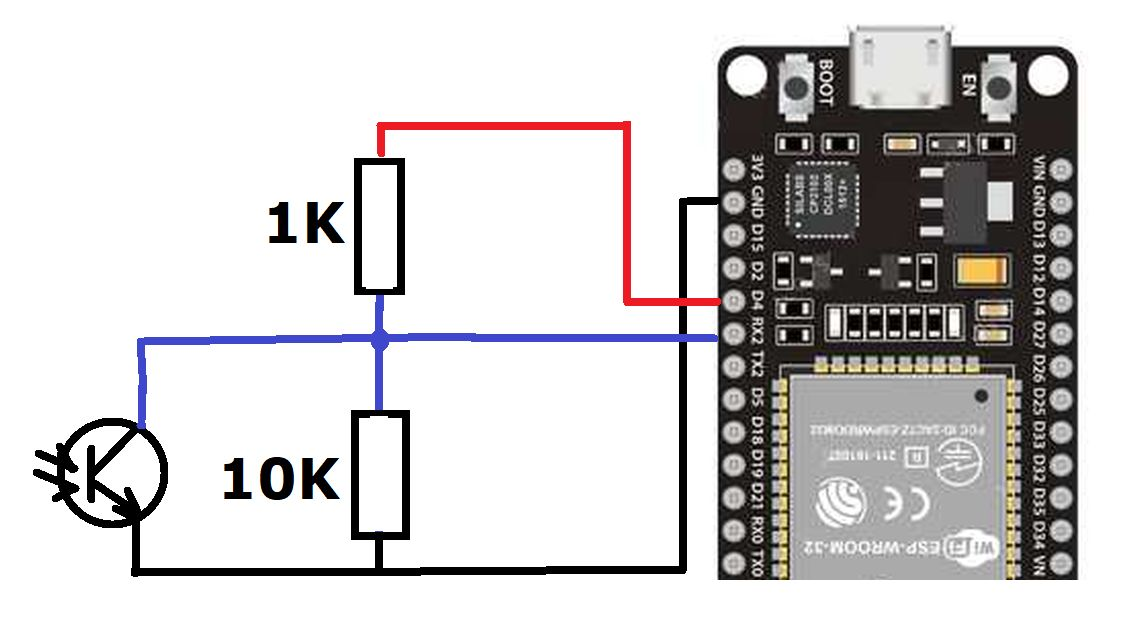
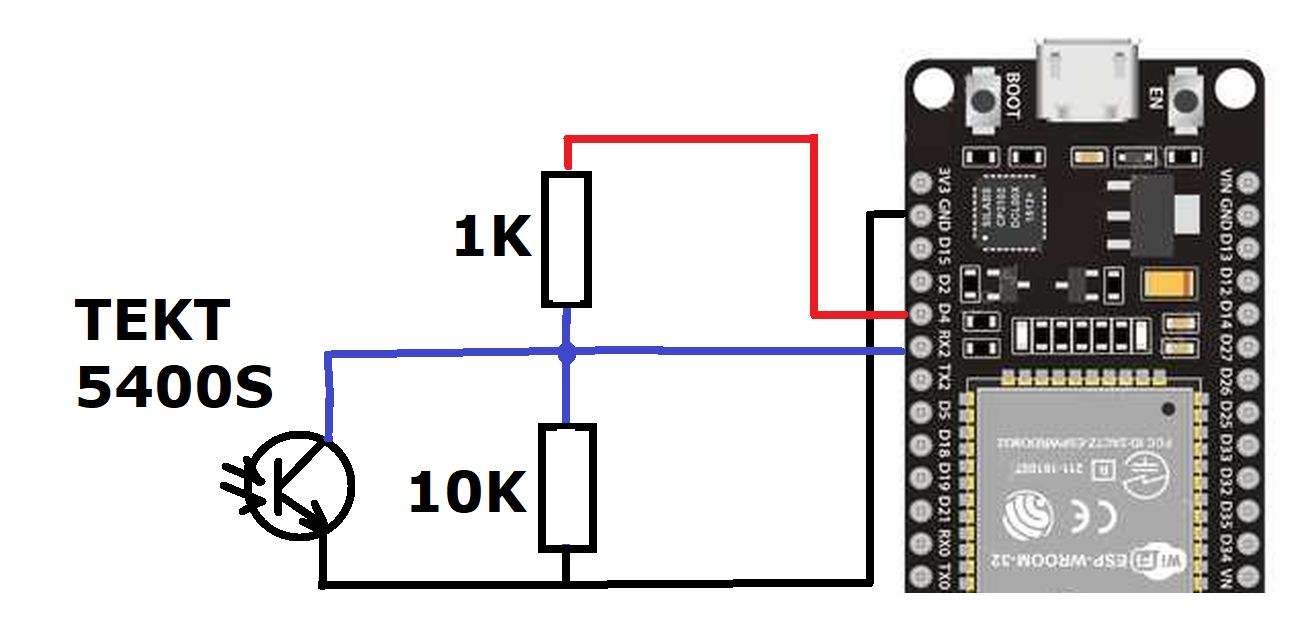
Updated wiring.jpg

Changed region(s): [[0.0311, 0.0306, 0.9627, 0.9791]]

diff --git a/README.md b/README.md
@@ -22,7 +22,8 @@ All configuration is done in config.h. Define user and password for wlan
 here, as well as target databases, baud rate of your sensor etc.
 
 ## Sensor
-The sensor is a simple IR photo transistor that's hooked up to the ESP32,
+The sensor is a simple IR photo transistor (TEKT5400S-ASZ or similar)
+that's hooked up to the ESP32,
 using an 1K pullup and an 10K pulldown resistor to give a decent
 signal. An image showing the circuit is added to the projekt as
 "wiring.jpg". (The sensor is based on a simple IR reader like described
